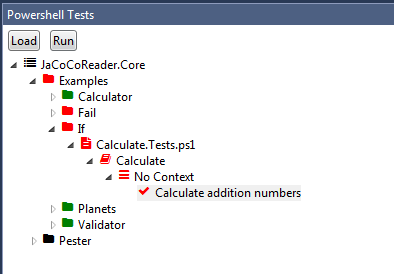
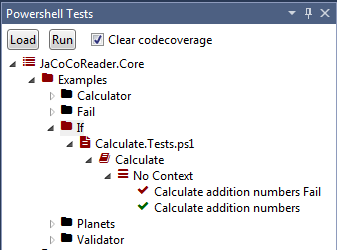
Dark Theme color fixes

diff --git a/JaCoCoReader.Core/Views/CodeCoverageTree.xaml b/JaCoCoReader.Core/Views/CodeCoverageTree.xaml
@@ -21,7 +21,9 @@
     </UserControl.Resources>
 
     <controls1:TreeListView SelectedNodeItem="{Binding SelectedNode, Mode=TwoWay}" 
-                                  BorderThickness="0">
+                                  BorderThickness="0"
+                            Background="{Binding Background, ElementName=CodeCoverageTreeName}"
+                            Foreground="{Binding Foreground, ElementName=CodeCoverageTreeName}">
         <controls1:TreeListView.ItemsSource>
 
             <MultiBinding Converter="{x:Static converters:CoverageOrderMultiValueConvertor.Instance}" UpdateSourceTrigger="PropertyChanged">
@@ -50,7 +52,8 @@
                                                   IsChecked="{Binding Path=IsExpanded,RelativeSource={RelativeSource AncestorType={x:Type controls1:TreeListViewItem}}}"
                                                   ClickMode="Press"/>
                             <icons:FontAwesome Icon="{Binding Icon}" Foreground="{Binding Background}" />
-                            <TextBlock Text="{Binding Description}" Margin="5,0,0,0"/>
+                            <TextBlock Text="{Binding Description}" Margin="5,0,0,0"
+                                       Foreground="{Binding Foreground, ElementName=CodeCoverageTreeName}"/>
                         </DockPanel>
                         <DataTemplate.Triggers>
                             <DataTrigger Binding="{Binding Path=HasItems,RelativeSource={RelativeSource AncestorType={x:Type controls1:TreeListViewItem}}}" 
@@ -70,7 +73,8 @@
                 </GridViewColumn.Header>
                 <GridViewColumn.CellTemplate>
                     <DataTemplate DataType="{x:Type codeCoverage1:FolderViewModel}">
-                        <TextBlock TextAlignment="Right" Text="{Binding CoveredLines}" />
+                        <TextBlock TextAlignment="Right" Text="{Binding CoveredLines}"
+                                   Foreground="{Binding Foreground, ElementName=CodeCoverageTreeName}" />
                     </DataTemplate>
                 </GridViewColumn.CellTemplate>
             </GridViewColumn>
@@ -81,7 +85,8 @@
                 </GridViewColumn.Header>
                 <GridViewColumn.CellTemplate>
                     <DataTemplate DataType="{x:Type codeCoverage1:FolderViewModel}">
-                        <TextBlock TextAlignment="Right" Text="{Binding CoveredLinesPercentage, StringFormat={}{0:p0}}" />
+                        <TextBlock TextAlignment="Right" Text="{Binding CoveredLinesPercentage, StringFormat={}{0:p0}}" 
+                                   Foreground="{Binding Foreground, ElementName=CodeCoverageTreeName}"/>
                     </DataTemplate>
                 </GridViewColumn.CellTemplate>
             </GridViewColumn>
@@ -92,7 +97,8 @@
                 </GridViewColumn.Header>
                 <GridViewColumn.CellTemplate>
                     <DataTemplate DataType="{x:Type codeCoverage1:FolderViewModel}">
-                        <TextBlock TextAlignment="Right" Text="{Binding MissedLines}"  />
+                        <TextBlock TextAlignment="Right" Text="{Binding MissedLines}"  
+                                   Foreground="{Binding Foreground, ElementName=CodeCoverageTreeName}"/>
                     </DataTemplate>
                 </GridViewColumn.CellTemplate>
             </GridViewColumn>
@@ -103,7 +109,8 @@
                 </GridViewColumn.Header>
                 <GridViewColumn.CellTemplate>
                     <DataTemplate DataType="{x:Type codeCoverage1:FolderViewModel}">
-                        <TextBlock TextAlignment="Right" Text="{Binding MissedLinesPercentage, StringFormat={}{0:p0}}"  />
+                        <TextBlock TextAlignment="Right" Text="{Binding MissedLinesPercentage, StringFormat={}{0:p0}}"  
+                                   Foreground="{Binding Foreground, ElementName=CodeCoverageTreeName}"/>
                     </DataTemplate>
                 </GridViewColumn.CellTemplate>
             </GridViewColumn>
@@ -114,7 +121,8 @@
                 </GridViewColumn.Header>
                 <GridViewColumn.CellTemplate>
                     <DataTemplate DataType="{x:Type codeCoverage1:FolderViewModel}">
-                        <TextBlock TextAlignment="Right" Text="{Binding TotalLines}"  />
+                        <TextBlock TextAlignment="Right" Text="{Binding TotalLines}"  
+                                   Foreground="{Binding Foreground, ElementName=CodeCoverageTreeName}"/>
                     </DataTemplate>
                 </GridViewColumn.CellTemplate>
             </GridViewColumn>

diff --git a/JaCoCoReader.Core/Views/TestsDetails.xaml b/JaCoCoReader.Core/Views/TestsDetails.xaml
@@ -5,8 +5,8 @@
              xmlns:d="http://schemas.microsoft.com/expression/blend/2008"
              xmlns:tests="clr-namespace:JaCoCoReader.Core.Models.Tests"
              xmlns:converters="clr-namespace:JaCoCoReader.Core.UI.Converters"
-             xmlns:icons="clr-namespace:JaCoCoReader.Core.UI.Icons"
              mc:Ignorable="d" 
+             x:Name="TestsDetailsName"
              d:DataContext="{d:DesignInstance Type=tests:TestModel, IsDesignTimeCreatable=false}"
              d:DesignHeight="150" d:DesignWidth="300">
     <Grid Visibility="{Binding Converter={x:Static converters:VisibilityConverter.Instance}}">
@@ -21,12 +21,12 @@
         </Grid.ColumnDefinitions>
         
         <StackPanel Grid.Row="0" Grid.Column="0" Grid.ColumnSpan="2" Orientation="Horizontal">
-            <Label Content="{Binding Type}" FontWeight="UltraBold" Margin="5,0,0,0" />
-            <Label Content="{Binding Name}" FontWeight="Bold" Margin="5,0,0,0" />
+            <TextBlock Text="{Binding Type}" FontWeight="UltraBold" Margin="5" />
+            <TextBlock Text="{Binding Name}" FontWeight="Bold" Margin="5" />
         </StackPanel>
-        
-        <Label Grid.Row="1" Grid.Column="0" Content="{Binding Outcome}" />
-        <Label Grid.Row="1" Grid.Column="1" Content="{Binding Time}" />
+
+        <TextBlock Grid.Row="1" Grid.Column="0" Text="{Binding Outcome}" Margin="5" />
+        <TextBlock Grid.Row="1" Grid.Column="1" Text="{Binding Time}" Margin="5" />
         
         <ScrollViewer Grid.Row="2" Grid.Column="0" Grid.ColumnSpan="2" >
             <Grid>
@@ -38,15 +38,21 @@
                 
                 
                 <TextBox Grid.Row="0" Text="{Binding ErrorMessage}" 
-                         Visibility="{Binding ErrorMessage, Converter={x:Static converters:VisibilityConverter.Instance}}"/>
+                         Visibility="{Binding ErrorMessage, Converter={x:Static converters:VisibilityConverter.Instance}}"
+                         Background="{Binding Background, ElementName=TestsDetailsName}"
+                         Foreground="{Binding Foreground, ElementName=TestsDetailsName}"/>
                 
                 <TextBox Grid.Row="1" Text="{Binding ErrorStackTrace}" AcceptsReturn="True" IsReadOnly="True" 
                          HorizontalScrollBarVisibility="Auto" VerticalScrollBarVisibility="Auto" Height="150"
-                         Visibility="{Binding ErrorStackTrace, Converter={x:Static converters:VisibilityConverter.Instance}}"/>
+                         Visibility="{Binding ErrorStackTrace, Converter={x:Static converters:VisibilityConverter.Instance}}"
+                         Background="{Binding Background, ElementName=TestsDetailsName}"
+                         Foreground="{Binding Foreground, ElementName=TestsDetailsName}"/>
                 
                 <TextBox Grid.Row="2" Text="{Binding Output}" AcceptsReturn="True" IsReadOnly="True" 
                          HorizontalScrollBarVisibility="Auto" VerticalScrollBarVisibility="Auto" 
-                         Visibility="{Binding Output, Converter={x:Static converters:VisibilityConverter.Instance}}"/>
+                         Visibility="{Binding Output, Converter={x:Static converters:VisibilityConverter.Instance}}"
+                         Background="{Binding Background, ElementName=TestsDetailsName}"
+                         Foreground="{Binding Foreground, ElementName=TestsDetailsName}"/>
             </Grid>
         </ScrollViewer>
     </Grid>

diff --git a/JaCoCoReader.Core/Views/TestsTree.xaml b/JaCoCoReader.Core/Views/TestsTree.xaml
@@ -8,7 +8,7 @@
              xmlns:codeCoverage11="clr-namespace:JaCoCoReader.Core.Models.Tests"
              xmlns:views="clr-namespace:JaCoCoReader.Core.Views"
              xmlns:icons="clr-namespace:JaCoCoReader.Core.UI.Icons"
-
+             x:Name="TestsTreeName"
              mc:Ignorable="d" 
              d:DataContext="{d:DesignInstance Type=tests1:TestsViewModel, IsDesignTimeCreatable=false}"
              d:DesignHeight="300" d:DesignWidth="300">
@@ -22,7 +22,9 @@
     </UserControl.Resources>
     <DockPanel>
 
-        <views:TestsDetails DockPanel.Dock="Bottom" DataContext="{Binding SelectedNode}" Height="150" />
+        <views:TestsDetails DockPanel.Dock="Bottom" DataContext="{Binding SelectedNode}" Height="150" 
+                            Background="{Binding Background, ElementName=TestsTreeName}" 
+                            Foreground="{Binding Foreground, ElementName=TestsTreeName}" />
 
         <controls1:DockPanelSplitter DockPanel.Dock="Bottom" Height="3" >
 
@@ -37,7 +39,9 @@
 
         </controls1:DockPanelSplitter>
 
-        <controls1:TreeViewEx ItemsSource="{Binding Model.Projects}" SelectedNodeItem="{Binding SelectedNode, Mode=TwoWay}" BorderThickness="0">
+        <controls1:TreeViewEx ItemsSource="{Binding Model.Projects}" SelectedNodeItem="{Binding SelectedNode, Mode=TwoWay}" BorderThickness="0"
+                              Background="{Binding Background, ElementName=TestsTreeName}" 
+                              Foreground="{Binding Foreground, ElementName=TestsTreeName}" >
             <controls1:TreeViewEx.ContextMenu>
                 <ContextMenu>
                     <MenuItem Command="{Binding RunCommand}" Header="run" />
@@ -48,7 +52,8 @@
                 <HierarchicalDataTemplate DataType="{x:Type codeCoverage11:TestModel}" ItemsSource="{Binding Items}">
                     <StackPanel Orientation="Horizontal">
                         <icons:FontAwesome Icon="{Binding Icon}" Foreground="{Binding Background}" />
-                        <TextBlock Text="{Binding Name}" Margin="5,0,0,0"/>
+                        <TextBlock Text="{Binding Name}" Margin="5,0,0,0" 
+                                   Foreground="{Binding Foreground, ElementName=TestsTreeName}"/>
                     </StackPanel>
                 </HierarchicalDataTemplate>
             </controls1:TreeViewEx.ItemTemplate>

diff --git a/JaCoCoReader.Core/Views/CodeCoverageMenu.xaml b/JaCoCoReader.Core/Views/CodeCoverageMenu.xaml
@@ -4,6 +4,7 @@
              xmlns:mc="http://schemas.openxmlformats.org/markup-compatibility/2006" 
              xmlns:d="http://schemas.microsoft.com/expression/blend/2008"
              xmlns:codeCoverage="clr-namespace:JaCoCoReader.Core.ViewModels.CodeCoverage"
+             x:Name="CodeCoverageMenuName"
              mc:Ignorable="d" d:DataContext="{d:DesignInstance Type=codeCoverage:CodeCoverageViewModel, IsDesignTimeCreatable=false}"
              d:DesignHeight="40" d:DesignWidth="300">
     <StackPanel Orientation="Horizontal">
@@ -12,10 +13,12 @@
         
         <TextBlock Margin="5,0,0,0"  Text="Cover scripts" VerticalAlignment="Center" />
         
-        <ComboBox Margin="5,0,0,0" ItemsSource="{Binding CoveredScriptsItems}" SelectedItem="{Binding SelectedCoveredScriptsItem}" VerticalAlignment="Center"/>
+        <ComboBox Margin="5,0,0,0" ItemsSource="{Binding CoveredScriptsItems}" SelectedItem="{Binding SelectedCoveredScriptsItem}" 
+                  VerticalAlignment="Center"/>
         <TextBlock Margin="5,0,0,0" Text="Show code coverage coloring" VerticalAlignment="Center" />
         
-        <CheckBox IsChecked="{Binding ShowLinesHit}" Margin="5" VerticalAlignment="Center"/>
+        <CheckBox IsChecked="{Binding ShowLinesHit}" Margin="5" VerticalAlignment="Center"
+                  Foreground="{Binding Foreground, ElementName=CodeCoverageMenuName}"/>
         
     </StackPanel>
 </UserControl>

diff --git a/JaCoCoReader.Core/Views/TestsMenu.xaml b/JaCoCoReader.Core/Views/TestsMenu.xaml
@@ -6,6 +6,7 @@
              xmlns:tests1="clr-namespace:JaCoCoReader.Core.ViewModels.Tests"
              xmlns:converters="clr-namespace:JaCoCoReader.Core.UI.Converters"
              mc:Ignorable="d" 
+             x:Name="TestsMenuName"
              d:DataContext="{d:DesignInstance Type=tests1:TestsViewModel, IsDesignTimeCreatable=false}"
              d:DesignHeight="40" d:DesignWidth="300">
     
@@ -25,6 +26,7 @@
         
         <TextBlock Text="{Binding RunningTest}" VerticalAlignment="Center" Margin="5,0,0,0"/>
 
-        <CheckBox IsChecked="{Binding ClearCodeCoverage}" Content="Clear codecoverage" Margin="5,0,0,0" VerticalAlignment="Center"/>
+        <CheckBox IsChecked="{Binding ClearCodeCoverage}" Content="Clear codecoverage" Margin="5,0,0,0" VerticalAlignment="Center"
+                  Foreground="{Binding Foreground, ElementName=TestsMenuName}"/>
     </StackPanel>
 </UserControl>

diff --git a/JaCoCoReader.Vsix/Tests/TestsWindowControl.xaml b/JaCoCoReader.Vsix/Tests/TestsWindowControl.xaml
@@ -28,7 +28,11 @@
                 <RowDefinition Height="*"/>
             </Grid.RowDefinitions>
 
-            <views:TestsMenu Grid.Row="0" />
-            <views:TestsTree Grid.Row="1" />
+            <views:TestsMenu Grid.Row="0" 
+                             Background="{Binding Background, ElementName=TestsToolWindow}"
+                             Foreground="{Binding Foreground, ElementName=TestsToolWindow}"/>
+        <views:TestsTree Grid.Row="1"  
+                         Background="{Binding Background, ElementName=TestsToolWindow}"
+                         Foreground="{Binding Foreground, ElementName=TestsToolWindow}"/>
     </Grid>
 </UserControl>
